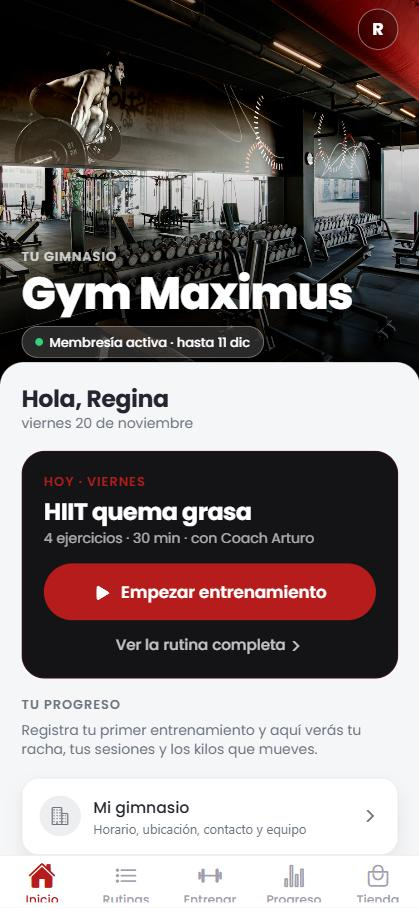
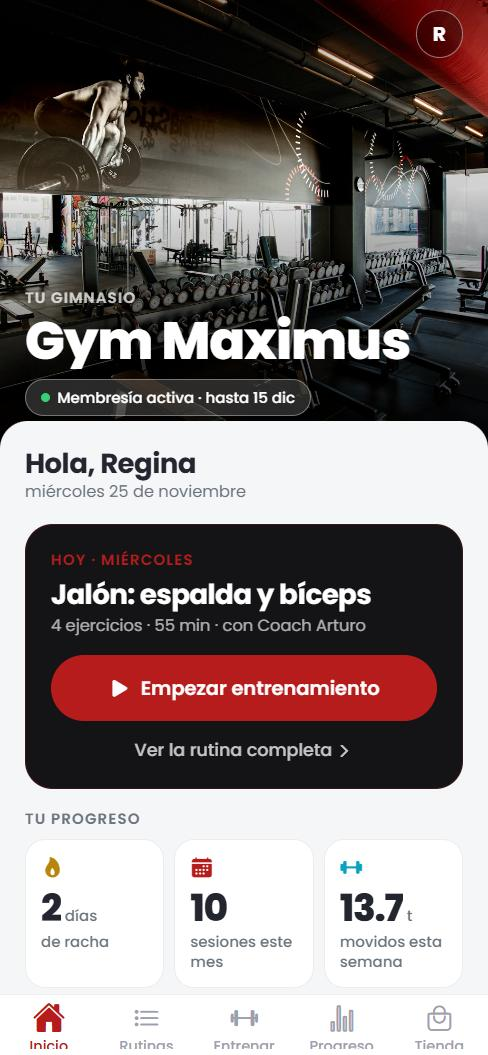
Recorrido en la app: capturas actuales con la barra nueva, el entrenamiento guiado y su progreso

diff --git a/slides.js b/slides.js
@@ -278,15 +278,15 @@ window.PRESENTACION = {
         { titulo: 'Se une a su gimnasio', texto: 'Escribe el código que le dan en recepción y el dueño aprueba su solicitud.',
           pantallas: ['Vincular gimnasio'],
           capturas: [{ src: 'img/app-vincular.png', alt: 'Pantalla Vincular gimnasio' }] },
-        { titulo: 'Ve su membresía', texto: 'Ve su gimnasio, si su membresía está activa y hasta cuándo, y la rutina del día.',
+        { titulo: 'Ve su membresía', texto: 'Ve su gimnasio, si su membresía está activa y hasta cuándo, la rutina del día y su progreso.',
           pantallas: ['Inicio'],
           capturas: [{ src: 'img/app-inicio.png', alt: 'Pantalla Inicio' }] },
         { titulo: 'Elige y paga su plan o producto', texto: 'Elige en la tienda de su gimnasio y paga con tarjeta, PayPal o en tienda, sin ir a recepción.',
           pantallas: ['Tienda', 'Pagar'],
           capturas: [{ src: 'img/app-tienda.png', alt: 'Pantalla Tienda' }, { src: 'img/app-pagar.png', alt: 'Pantalla Pagar' }] },
-        { titulo: 'Entrena y mide su avance', texto: 'Sigue la rutina paso a paso, con ilustraciones de cómo se hace cada ejercicio; anota series y peso, y ve su avance.',
-          pantallas: ['Entrenar', 'Progreso'],
-          capturas: [{ src: 'img/app-entrenar.png', alt: 'Pantalla Entrenar' }, { src: 'img/app-progreso.png', alt: 'Pantalla Progreso' }] }
+        { titulo: 'Entrena y mide su avance', texto: 'Sigue la rutina de su coach con la ilustración de cada ejercicio, marca sus series con el descanso en marcha y ve su avance.',
+          pantallas: ['Entrenando', 'Progreso'],
+          capturas: [{ src: 'img/app-entrenando.png', alt: 'Pantalla Entrenando' }, { src: 'img/app-progreso.png', alt: 'Pantalla Progreso' }] }
       ],
       duracion: '1:00',
       presenta: "Eduardo",
@@ -296,7 +296,7 @@ window.PRESENTACION = {
         "[→] Luego, en Vincular gimnasio, se une a su gimnasio con el código que le dan en recepción, y el dueño aprueba su solicitud.",
         "[→] En Inicio ve su gimnasio, si su membresía está activa y hasta cuándo, y la rutina del día.",
         "[→] En la Tienda elige su plan o un producto y lo paga en Pagar, con tarjeta, PayPal o en tienda, sin ir a recepción.",
-        "[→] Y por último, en Entrenar sigue la rutina de su coach paso a paso, con ilustraciones de cómo se hace cada ejercicio, anota sus series y su peso, y en Progreso ve su racha y cuánto avanza.",
+        "[→] Y por último entrena: desde Inicio empieza la rutina del día y en Entrenando sigue cada ejercicio con su ilustración, anota sus kilos, marca cada serie y le corre el descanso. En Progreso ve su racha y su volumen por grupo muscular.",
         "[→] Así queda el recorrido completo. La renovación y el pago los van a ver en la demostración. Edwin sigue con el RFID."
       ]
     },
